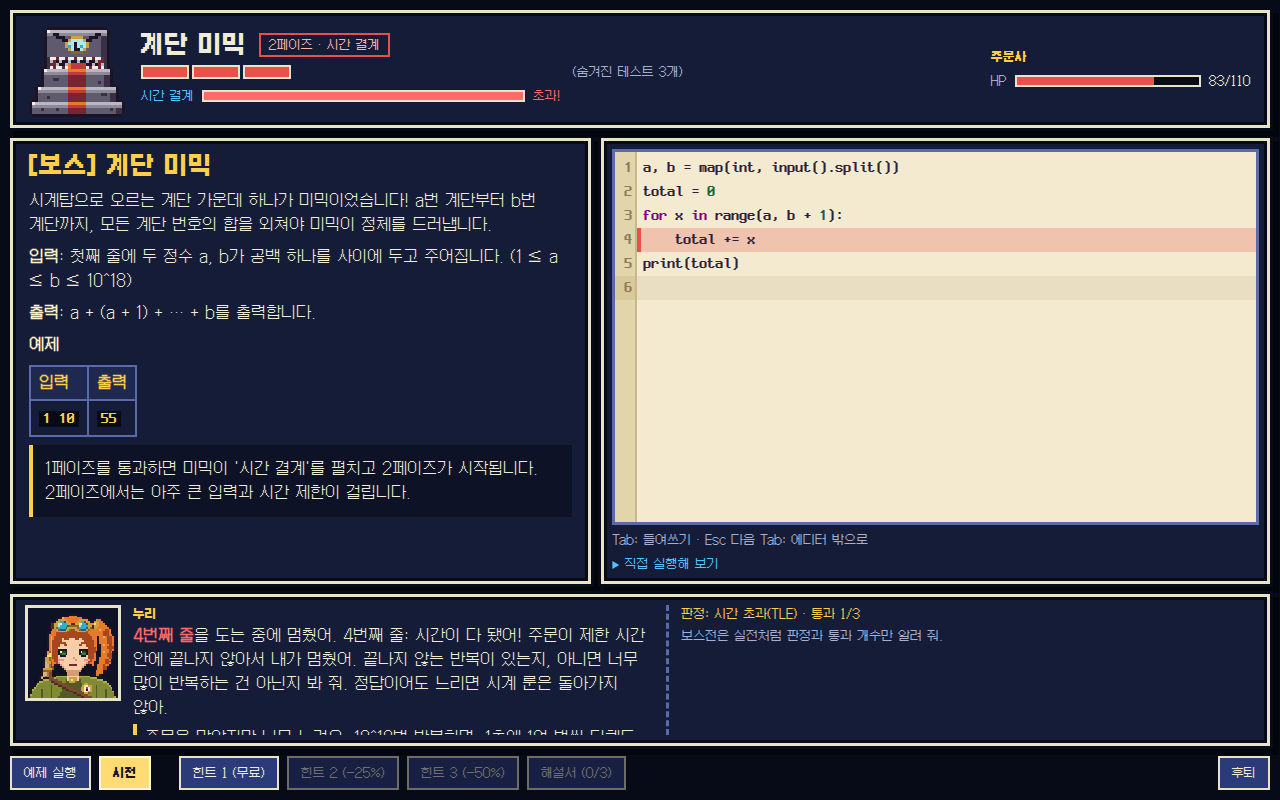
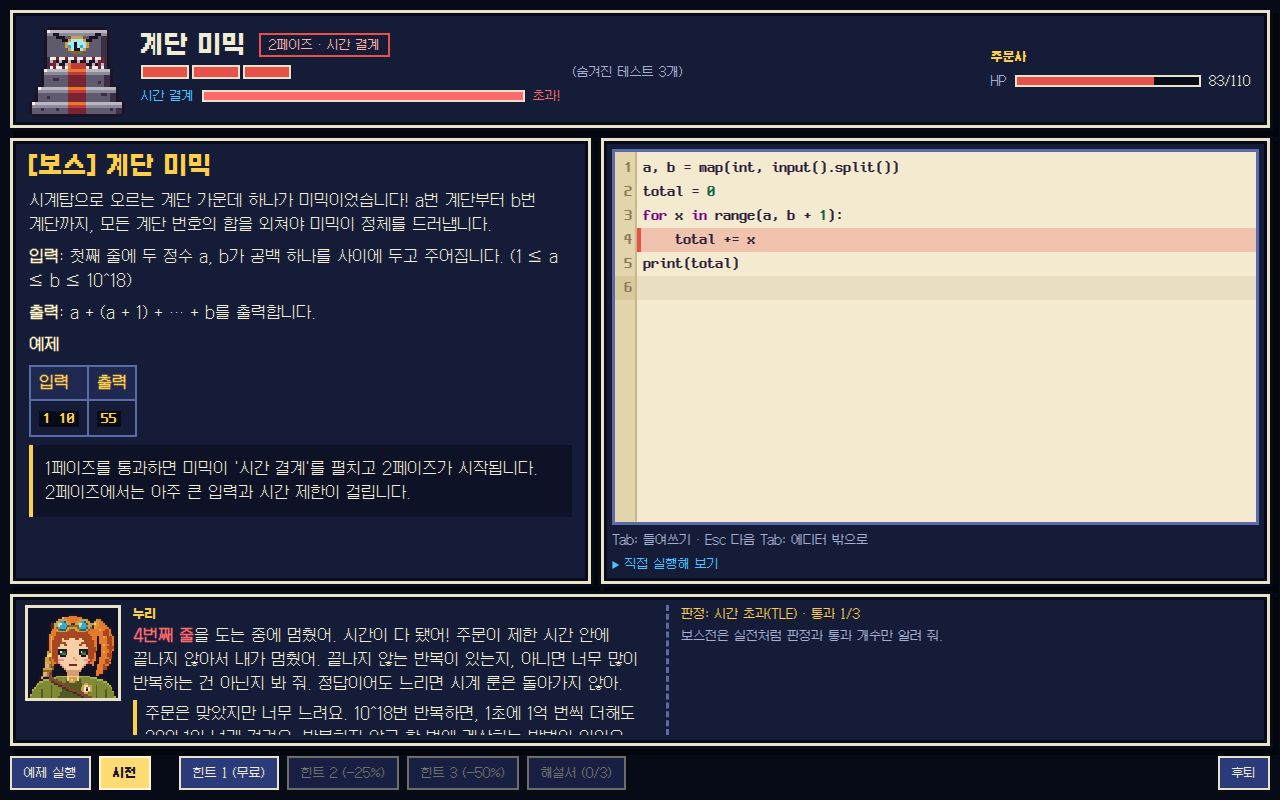
Phase 2 단위 8: 모달을 닫은 Esc가 메뉴를 다시 여는 문제, 해설 줄 번호 중복 수정
- WorldScene: UI가 preventDefault한 키는 무시. 모달이 닫히며 입력이 다시 켜진 뒤 같은 Esc가
  window까지 올라와 메뉴를 다시 열었다(메뉴를 Esc로 닫을 수 없었고, 레슨을 Esc로 닫으면 메뉴가 열림)
- 전투 해설: explain()이 붙이는 'n번째 줄:'과 화면의 줄 강조가 겹치던 것을 본문만 쓰도록
- E2E: 레슨 Esc 닫기, 메뉴 Esc 닫기, 코덱스, 누르고 있던 방향키로 후퇴 직후 재전투 없음 확인

Claude-Session: https://claude.ai/code/session_015AHiSzJ65Tc15JfjumnHsg

Changed region(s): [[0.0938, 0.7812, 0.5, 0.9375]]

diff --git a/tests/e2e/game.spec.ts b/tests/e2e/game.spec.ts
@@ -145,6 +145,8 @@ async function doLesson(page: Page, answer: string, shotName?: string): Promise<
 
 // ───────────── 전투 ─────────────
 
+const count = (text: string | null, needle: string) => (text ?? "").split(needle).length - 1;
+
 const editor = (page: Page) => page.locator(".battle-editor .cm-content");
 /** 에디터에 보이는 코드(짧은 코드라 모든 줄이 그려져 있다) */
 const editorText = (page: Page) =>
@@ -234,7 +236,15 @@ test.describe.serial("지역 1 전체 플레이", () => {
     expect((await said(page)).at(-1)).toBe("gate_well_locked");
     expect((await obj(page, "gate_well")).removed).toBe(false);
 
-    // 우물가 비석 → 레슨 L1-1
+    // 우물가 비석 → 레슨을 Esc로 닫으면 완료되지 않고, 그 Esc가 메뉴를 열지도 않는다
+    await interact(page, "rune_L1-1");
+    await settle(page, ".lesson-modal");
+    await page.keyboard.press("Escape");
+    await expect(page.locator(".lesson-modal")).toHaveCount(0);
+    await page.waitForTimeout(300);
+    await expect(page.locator(".menu-modal")).toHaveCount(0);
+    expect((await save(page)).lessonsCompleted).toEqual([]);
+    // 다시 열어 완료
     await interact(page, "rune_L1-1");
     await doLesson(page, "input()", "02-lesson.png");
     expect((await said(page)).slice(-2)).toEqual(["lesson_L1-1_intro", "lesson_L1-1_done"]);
@@ -359,6 +369,7 @@ test.describe.serial("지역 1 전체 플레이", () => {
     // TLE를 '폭발'(RE)로 말하지 않는다
     await expect(page.locator(".battle-msg-text")).not.toContainText("폭발");
     await expect(page.locator(".battle-msg-text .err-line")).toHaveText("4번째 줄");
+    expect(count(await page.locator(".battle-msg-text").textContent(), "4번째 줄")).toBe(1);
     await shot(page, "05-boss-tle.png");
     // 공식 → 승리
     await typeCode(page, solution("P0105"));
@@ -398,6 +409,24 @@ test.describe.serial("지역 1 전체 플레이", () => {
     }
     // 선택 몬스터는 남아 있다
     for (const id of ["m_P0108", "m_P0109", "m_P0110"]) expect(s.removedObjects).not.toContain(id);
+
+    // 메뉴(M) → 코덱스: 얻은 주문서 4개, 예제 실행
+    await page.keyboard.press("KeyM");
+    await expect(page.locator(".menu-modal")).toBeVisible();
+    await page.locator(".menu-codex").click();
+    await expect(page.locator(".codex-item")).toHaveCount(4);
+    await page.locator('.codex-item[data-lesson="L1-3"]').click();
+    await page.locator(".codex-detail .md-run-btn").first().click();
+    await expect(page.locator(".codex-detail .md-run-out").first()).not.toHaveText(/실행 중|^$/);
+    await page.keyboard.press("Escape");
+    await expect(page.locator(".codex-modal")).toHaveCount(0);
+    await expect(page.locator(".menu-modal")).toBeVisible();
+    // 메뉴를 닫은 Esc가 메뉴를 다시 열지 않는다
+    await page.keyboard.press("Escape");
+    await expect(page.locator(".menu-modal")).toHaveCount(0);
+    await page.waitForTimeout(300);
+    await expect(page.locator(".menu-modal")).toHaveCount(0);
+    await settle(page);
 
     // 보스가 있던 칸을 지나 동쪽 문
     await walkTo(page, boss.x, boss.y);
@@ -494,6 +523,8 @@ test.describe("실패와 복구", () => {
       await cast(page);
       await expect(page.locator(".battle-msg-text")).toContainText("주문이 폭발했어");
       await expect(page.locator(".battle-msg-text .err-line")).toHaveText("2번째 줄");
+      // 줄 번호는 한 번만(해설 본문에 'n번째 줄:'이 다시 붙지 않는다)
+      expect(count(await page.locator(".battle-msg-text").textContent(), "2번째 줄")).toBe(1);
       await expect(page.locator(".battle-msg-text code").first()).toHaveText("TypeError");
       await expect(page.locator(".cm-error-line")).toHaveCount(1);
       await typeCode(page, wrong);
@@ -617,7 +648,9 @@ test.describe("키보드와 오프라인", () => {
     await settle(page);
     const gate = await obj(page, "gate_well");
     await seedAndReload(page, { lessons: ["L1-1", "L1-2"], removed: ["gate_well"], at: { x: gate.x, y: gate.y - 1 }, flags: ["trigger.r01.t_prologue"] });
-    await bump(page, "m_P0101");
+    // 방향키를 누른 채로 몬스터에 부딪혀 전투를 연다(키를 떼지 않음)
+    const dir = await approach(page, "m_P0101");
+    await page.keyboard.down(KEY[dir]);
     await settle(page, ".battle-modal");
     const before = await where(page);
     await editor(page).click();
@@ -637,14 +670,25 @@ test.describe("키보드와 오프라인", () => {
     await expect(page.locator(".battle-modal")).toBeVisible();
     await expect(page.locator(".menu-modal")).toHaveCount(0);
 
-    // 후퇴 후 캔버스를 누르면 방향키로 다시 움직인다
+    // 방향키를 누른 채로 후퇴. 키 자동 반복으로는 같은 몬스터와 다시 싸우지 않는다
+    // (위에서 같은 키를 press로 뗐으므로 여기서 다시 누른다. 이 keydown은 에디터가 받는다)
+    await page.keyboard.down(KEY[dir]);
     await page.locator(".act-retreat").click();
     await settle(page);
+    for (let i = 0; i < 5; i++) await page.keyboard.down(KEY[dir]); // repeat=true
+    await page.waitForTimeout(400);
+    await expect(page.locator(".battle-modal")).toHaveCount(0);
+    expect(await where(page)).toMatchObject({ x: before.x, y: before.y });
+    await page.keyboard.up(KEY[dir]);
+    // 캔버스를 누르면(에디터 포커스 없이) 방향키로 다시 움직인다
     await page.locator("#game canvas").click({ position: { x: 20, y: 400 } });
     expect(await page.evaluate(() => document.activeElement?.closest?.(".cm-editor") ?? null)).toBeNull();
-    const w = await where(page);
-    await step(page, w.facing);
-    expect(await where(page)).not.toMatchObject({ x: w.x, y: w.y });
+    await step(page, OPP[dir]);
+    expect(await where(page)).not.toMatchObject({ x: before.x, y: before.y });
+    // 새로 누르면 다시 붙는다
+    await bump(page, "m_P0101");
+    await settle(page, ".battle-modal");
+    expect(await editorText(page)).toContain("def f(a, b):");
   });
 
   test("오프라인: 외부 요청 없이 부팅(Pyodide는 같은 출처), 네트워크를 끊은 뒤에도 레슨 채점·무한루프 중단이 동작", async ({ page, context }) => {

diff --git a/src/ui/battle.ts b/src/ui/battle.ts
@@ -1,6 +1,6 @@
 // 전투 화면(design.md §5.3, §7.1, §9.7)
 import type { Emotion } from "../contracts/content";
-import type { JudgeResult, TestResult } from "../contracts/runner";
+import type { JudgeResult, PyError, TestResult } from "../contracts/runner";
 import type { BattleOutcome, HintLevel } from "../contracts/state";
 import type { BattleContext, BattleUI } from "../contracts/ui";
 import { createPortrait, createSprite } from "./assets";
@@ -276,6 +276,8 @@ export function createBattleUI(env: UiEnv): BattleUI {
         };
 
         // ---------- 판정 해설 ----------
+        // explain()은 'n번째 줄: '을 앞에 붙이는데, 여기서는 줄 번호를 따로 강조해 보여 주므로 본문만 쓴다
+        const explainBody = (error: PyError) => ctx.explain({ ...error, line: undefined }, ctx.traceback);
         const explainResult = (res: JudgeResult): { emotion: Emotion; html: string } => {
           const first = firstFailed(res);
           if (res.fatal) {
@@ -291,7 +293,7 @@ export function createBattleUI(env: UiEnv): BattleUI {
           if (first.verdict === "TLE") {
             const line = first.error?.line;
             if (line) editor.highlightLine(line);
-            const ex = first.error ? ctx.explain(first.error, ctx.traceback) : genericVerdictMessage("TLE");
+            const ex = first.error ? explainBody(first.error) : genericVerdictMessage("TLE");
             const where = line ? `<span class="err-line">${line}번째 줄</span>을 도는 중에 멈췄어. ` : "";
             let html = `${where}${renderInline(substituteNames(ex, names))}`;
             if (diag) html += `<div class="diag">${renderInline(substituteNames(diag, names))}</div>`;
@@ -300,7 +302,7 @@ export function createBattleUI(env: UiEnv): BattleUI {
           if (first.error) {
             const line = first.error.line;
             if (line) editor.highlightLine(line);
-            const ex = ctx.explain(first.error, ctx.traceback);
+            const ex = explainBody(first.error);
             const where = line ? `<span class="err-line">${line}번째 줄</span>에서 ` : "";
             let html = `주문이 폭발했어! ${where}<code>${escapeHtml(first.error.type)}</code>가 났어. ${renderInline(substituteNames(ex, names))}`;
             if (diag) html += `<div class="diag">${renderInline(substituteNames(diag, names))}</div>`;

diff --git a/src/game/WorldScene.ts b/src/game/WorldScene.ts
@@ -273,6 +273,9 @@ export class WorldScene extends Phaser.Scene {
       isEditableElement(document.activeElement) || (e ? isEditableElement(e.target) : false);
 
     const onKeyDown = (e: KeyboardEvent) => {
+      // UI가 이미 처리한 키(모달을 닫은 Esc 등)는 무시한다. 모달이 닫히면서 입력이 다시 켜진 뒤
+      // 같은 keydown이 window까지 올라와 메뉴를 다시 여는 일이 있었다
+      if (e.defaultPrevented) return;
       if (!this.inputEnabled || !this.region) return;
       if (e.isComposing || e.keyCode === 229) return;
       if (e.ctrlKey || e.metaKey || e.altKey) return;
